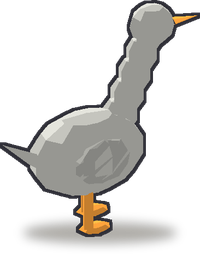
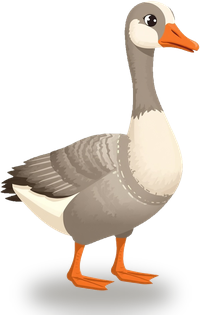
Поставить тульского гуся
Заодно записал в ART-TODO, почему Leonardo завернул первый запрос: пара слов
«grey goose» ловится фильтром торговых марок. Помогает перестановка.

Claude-Session: https://claude.ai/code/session_013ovumMuRfj2SmgMR5kzGwz

diff --git a/docs/ART-TODO.md b/docs/ART-TODO.md
@@ -25,14 +25,14 @@ python3 tools/import-art.py картинка.png <id>
 
 ## Список
 
-Всего животных 15, готовы 6 (все куры), одна из них временная.
+Всего животных 15, готовы 7, одна из них временная.
 
 | Готово | Файл | Порода | Постройка | Уровень | Как выглядит |
 |:---:|---|---|---|:---:|---|
 | ✅ | `breed-rusbel.png` | Русская белая | Курятник | 1 | Белая приземистая несушка, красный гребень |
 | ✅ | `breed-moskchern.png` | Московская чёрная | Курятник | 2 | Чёрная, золотистая грива |
 | ✅ | `breed-leggorn.png` | Леггорн | Курятник | 3 | Белая, высокая, крупный гребень набок |
-|  | `breed-tula.png` | Тульский бойцовый | Гусятник | 4 | Серый гусь |
+| ✅ | `breed-tula.png` | Тульский бойцовый | Гусятник | 4 | Серый гусь |
 | ✅ | `breed-orlov.png` | Орловская ситцевая | Курятник | 4 | Пёстрая ситцевая, борода и баки |
 | ~ | `breed-pavlov.png` | Павловская | Курятник | 5 | Стоит временная: генератор не нарисовал ни хохла, ни мохнатых ног, и вышла третья белая птица |
 |  | `breed-vietnam.png` | Вьетнамская вислобрюхая | Свинарник | 5 | Чёрная свинья, брюхо до земли |
@@ -64,7 +64,7 @@ cute cartoon golden brown hen with black speckles, a big round fluffy feather cr
 cute cartoon reddish-brown hen with golden neck feathers, 3/4 view facing right, full body standing, hand-painted 2D casual game art, plain flat background
 
 Тульский бойцовый
-cute cartoon grey goose with a long neck and orange beak, 3/4 view facing right, full body standing, hand-painted 2D casual game art, plain flat background
+cute cartoon domestic farm goose with soft grey and white feathers, long curved neck, orange beak, 3/4 view facing right, full body standing, hand-painted 2D casual game art, plain flat background
 
 Вьетнамская вислобрюхая
 cute cartoon black pot-bellied pig with a sagging belly and short legs, 3/4 view facing right, full body standing, hand-painted 2D casual game art, plain flat background
@@ -100,8 +100,14 @@ cute cartoon bay draft horse with feathered hooves, 3/4 view facing right, full 
 не видно, а картинок на них уходит столько же.
 
 Заодно из игры выпала единственная порода за кристаллы (Брама). Когда дойдут
-руки до «дорогой» живности — верну такую в гусятник или коровник. Хуже, когда животное смотрит влево: такую картинку
-приходится отражать, и надписи с несимметричными деталями уезжают.
+руки до «дорогой» живности — верну такую в гусятник или коровник.
+
+## Если генератор отказал
+
+Он режет торговые марки, даже когда речь про птицу. «Grey goose» — это водка,
+и запрос с такой парой слов Leonardo завернул как нарушение правил. Лечится
+перестановкой: «domestic farm goose with soft grey and white feathers».
+По той же причине из списка убрана Брама — это ещё и марка пива.
 
 ## Потом, если захочется
 
